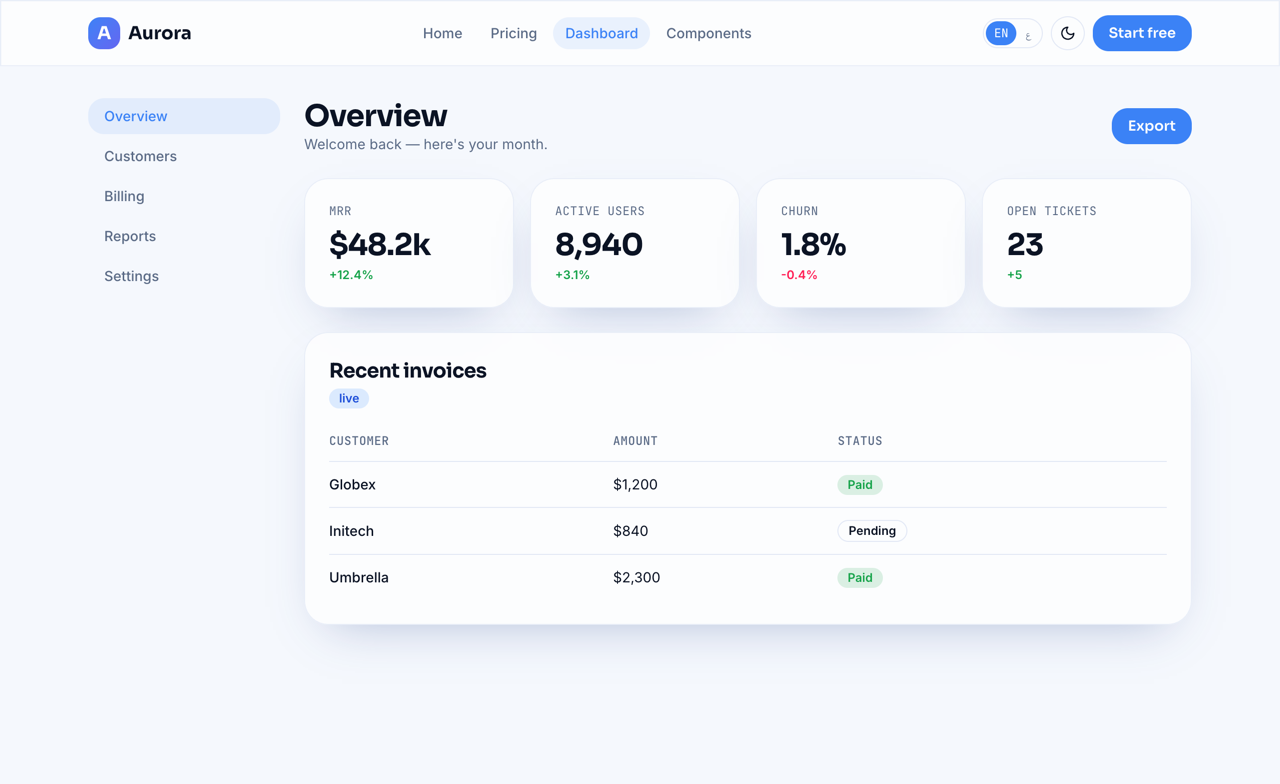
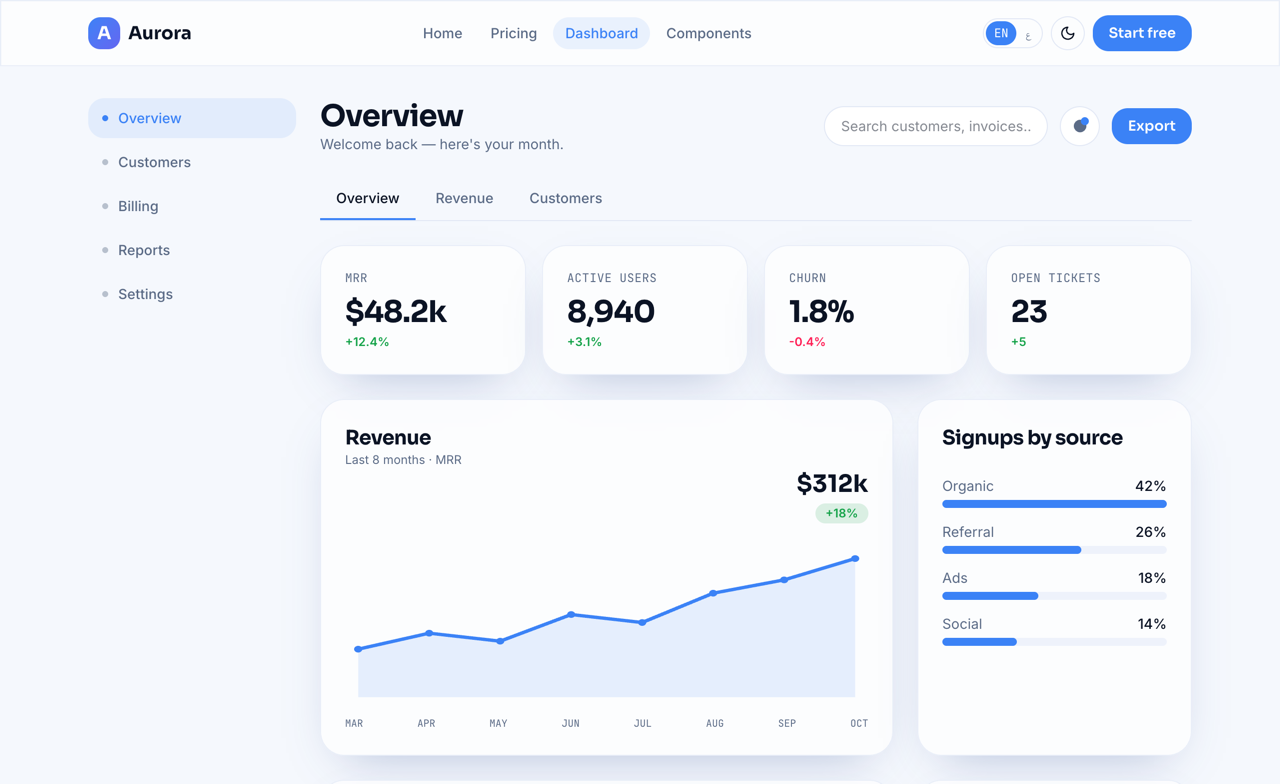
feat(dashboard): dense full dashboard — chart, traffic, table, activity, customers

diff --git a/react/src/routes/dashboard.tsx b/react/src/routes/dashboard.tsx
@@ -5,68 +5,213 @@ import { Container } from "../components/container";
 import { StatCards } from "../blocks/stat-cards";
 import { useI18n } from "../i18n";
 
+/** Inline area chart — no chart lib, pure SVG, themed via currentColor. */
+function AreaChart({ series }: { series: number[] }) {
+  const max = Math.max(...series);
+  const w = 320;
+  const h = 120;
+  const pad = 8;
+  const pts = series.map((v, i) => [
+    pad + (i / (series.length - 1)) * (w - pad * 2),
+    h - pad - (v / max) * (h - pad * 2),
+  ]);
+  const line = pts.map((p) => p.join(",")).join(" ");
+  const area = `${pad},${h - pad} ${line} ${w - pad},${h - pad}`;
+  return (
+    <svg viewBox={`0 0 ${w} ${h}`} className="h-40 w-full text-primary" preserveAspectRatio="none">
+      <polygon points={area} fill="currentColor" opacity="0.12" />
+      <polyline points={line} fill="none" stroke="currentColor" strokeWidth="2.5" strokeLinejoin="round" strokeLinecap="round" />
+      {pts.map((p, i) => (
+        <circle key={i} cx={p[0]} cy={p[1]} r="2.5" fill="currentColor" />
+      ))}
+    </svg>
+  );
+}
+
+function Avatar({ name }: { name: string }) {
+  const initials = name.trim().split(/\s+/).slice(0, 2).map((p) => p[0]).join("");
+  return (
+    <span className="grid h-9 w-9 shrink-0 place-items-center rounded-full bg-primary/10 font-display text-sm font-bold text-primary">
+      {initials}
+    </span>
+  );
+}
+
 export function Dashboard() {
   const { t } = useI18n();
   const d = t.dashboard;
+  const trafficMax = Math.max(...d.traffic.map((x) => x.value));
+
   return (
     <Container className="py-8">
       <div className="flex gap-6">
-        <aside className="hidden w-48 shrink-0 lg:block">
+        {/* Sidebar */}
+        <aside className="hidden w-52 shrink-0 lg:block">
           <nav className="space-y-1 text-sm font-medium">
             {d.nav.map((item, i) => (
               <a
                 key={item}
                 href="#"
                 className={
-                  "block rounded-[var(--radius)] px-4 py-2 " +
+                  "flex items-center gap-2.5 rounded-[var(--radius)] px-3.5 py-2.5 " +
                   (i === 0 ? "bg-primary/10 text-primary" : "text-muted-foreground hover:bg-muted")
                 }
               >
+                <span className={"h-1.5 w-1.5 rounded-full " + (i === 0 ? "bg-primary" : "bg-muted-foreground/40")} />
                 {item}
               </a>
             ))}
           </nav>
         </aside>
 
+        {/* Main */}
         <main className="min-w-0 flex-1 space-y-6">
-          <div className="flex items-center justify-between">
-            <div>
+          {/* Topbar */}
+          <div className="flex flex-wrap items-center gap-3">
+            <div className="min-w-0 flex-1">
               <h1 className="font-display text-3xl font-bold tracking-tight">{d.title}</h1>
               <p className="text-sm text-muted-foreground">{d.subtitle}</p>
             </div>
+            <input
+              placeholder={d.search}
+              className="hidden h-10 w-56 rounded-full border border-border bg-card px-4 text-sm outline-none focus:border-primary md:block"
+            />
+            <button className="relative grid h-10 w-10 place-items-center rounded-full border border-border bg-card text-muted-foreground">
+              <span className="absolute right-2.5 top-2.5 h-2 w-2 rounded-full bg-primary" />●
+            </button>
             <Button size="sm">{d.action}</Button>
+          </div>
+
+          {/* Tabs */}
+          <div className="flex gap-1 border-b border-border">
+            {d.tabs.map((tab, i) => (
+              <button
+                key={tab}
+                className={
+                  "border-b-2 px-4 py-2.5 text-sm font-medium " +
+                  (i === 0 ? "border-primary text-foreground" : "border-transparent text-muted-foreground hover:text-foreground")
+                }
+              >
+                {tab}
+              </button>
+            ))}
           </div>
 
           <StatCards stats={d.stats} />
 
+          {/* Charts row */}
+          <div className="grid gap-6 lg:grid-cols-3">
+            <Card className="lg:col-span-2">
+              <CardHeader className="flex-row items-start justify-between">
+                <div>
+                  <CardTitle>{d.chartTitle}</CardTitle>
+                  <p className="text-xs text-muted-foreground">{d.chartCaption}</p>
+                </div>
+                <div className="text-end">
+                  <p className="font-display text-2xl font-bold">{d.chartTotal}</p>
+                  <Badge variant="success">+18%</Badge>
+                </div>
+              </CardHeader>
+              <CardContent>
+                <AreaChart series={d.series} />
+                <div className="mt-2 flex justify-between font-mono text-[10px] uppercase text-muted-foreground">
+                  {d.months.map((m) => (
+                    <span key={m}>{m}</span>
+                  ))}
+                </div>
+              </CardContent>
+            </Card>
+
+            <Card>
+              <CardHeader>
+                <CardTitle>{d.trafficTitle}</CardTitle>
+              </CardHeader>
+              <CardContent className="space-y-3.5">
+                {d.traffic.map((row) => (
+                  <div key={row.label}>
+                    <div className="mb-1 flex justify-between text-sm">
+                      <span className="text-muted-foreground">{row.label}</span>
+                      <span className="font-medium">{row.value}%</span>
+                    </div>
+                    <div className="h-2 overflow-hidden rounded-full bg-muted">
+                      <div className="h-full rounded-full bg-primary" style={{ width: `${(row.value / trafficMax) * 100}%` }} />
+                    </div>
+                  </div>
+                ))}
+              </CardContent>
+            </Card>
+          </div>
+
+          {/* Table + activity */}
+          <div className="grid gap-6 lg:grid-cols-3">
+            <Card className="lg:col-span-2">
+              <CardHeader className="flex-row items-center justify-between">
+                <CardTitle>{d.tableTitle}</CardTitle>
+                <Badge variant="brand">live</Badge>
+              </CardHeader>
+              <CardContent>
+                <table className="w-full text-start text-sm">
+                  <thead className="font-mono text-xs uppercase tracking-wide text-muted-foreground">
+                    <tr>
+                      {d.cols.map((c) => (
+                        <th key={c} className="pb-3 text-start font-medium">{c}</th>
+                      ))}
+                    </tr>
+                  </thead>
+                  <tbody>
+                    {d.rows.map((r) => (
+                      <tr key={r.name} className="border-t border-border">
+                        <td className="py-3 font-medium">{r.name}</td>
+                        <td className="py-3">{r.reach}</td>
+                        <td className="py-3">
+                          <Badge variant={r.status === d.active ? "success" : "outline"}>{r.status}</Badge>
+                        </td>
+                      </tr>
+                    ))}
+                  </tbody>
+                </table>
+              </CardContent>
+            </Card>
+
+            <Card>
+              <CardHeader>
+                <CardTitle>{d.activityTitle}</CardTitle>
+              </CardHeader>
+              <CardContent>
+                <ol className="space-y-4">
+                  {d.activity.map((a, i) => (
+                    <li key={i} className="flex gap-3">
+                      <span className="mt-1.5 h-2 w-2 shrink-0 rounded-full bg-primary" />
+                      <div className="min-w-0 flex-1">
+                        <p className="text-sm leading-snug">{a.text}</p>
+                        <p className="font-mono text-[11px] text-muted-foreground">{a.time}</p>
+                      </div>
+                    </li>
+                  ))}
+                </ol>
+              </CardContent>
+            </Card>
+          </div>
+
+          {/* Customers */}
           <Card>
             <CardHeader className="flex-row items-center justify-between">
-              <CardTitle>{d.tableTitle}</CardTitle>
-              <Badge variant="brand">live</Badge>
+              <CardTitle>{d.usersTitle}</CardTitle>
+              <Button variant="ghost" size="sm">{d.seeAll}</Button>
             </CardHeader>
             <CardContent>
-              <table className="w-full text-start text-sm">
-                <thead className="font-mono text-xs uppercase tracking-wide text-muted-foreground">
-                  <tr>
-                    {d.cols.map((c) => (
-                      <th key={c} className="pb-3 text-start font-medium">
-                        {c}
-                      </th>
-                    ))}
-                  </tr>
-                </thead>
-                <tbody>
-                  {d.rows.map((r) => (
-                    <tr key={r.name} className="border-t border-border">
-                      <td className="py-3 font-medium">{r.name}</td>
-                      <td className="py-3">{r.reach}</td>
-                      <td className="py-3">
-                        <Badge variant={r.status === d.active ? "success" : "outline"}>{r.status}</Badge>
-                      </td>
-                    </tr>
-                  ))}
-                </tbody>
-              </table>
+              <div className="grid gap-3 sm:grid-cols-2">
+                {d.users.map((u) => (
+                  <div key={u.name} className="flex items-center gap-3 rounded-[var(--radius)] border border-border p-3">
+                    <Avatar name={u.name} />
+                    <div className="min-w-0 flex-1">
+                      <p className="truncate font-medium">{u.name}</p>
+                      <p className="truncate text-xs text-muted-foreground">{u.org}</p>
+                    </div>
+                    <Badge variant={u.status === d.trial ? "outline" : "success"}>{u.status}</Badge>
+                  </div>
+                ))}
+              </div>
             </CardContent>
           </Card>
         </main>

diff --git a/react/src/i18n/ar.ts b/react/src/i18n/ar.ts
@@ -67,6 +67,37 @@ export const ar: Dict = {
     ],
     active: "مدفوعة",
     paused: "معلّقة",
+    search: "ابحث في العملاء والفواتير…",
+    tabs: ["نظرة عامة", "الإيرادات", "العملاء"],
+    chartTitle: "الإيرادات",
+    chartCaption: "آخر 8 أشهر · MRR",
+    chartTotal: "$312k",
+    months: ["مارس", "أبريل", "مايو", "يونيو", "يوليو", "أغسطس", "سبتمبر", "أكتوبر"],
+    series: [18, 24, 21, 31, 28, 39, 44, 52],
+    trafficTitle: "التسجيلات حسب المصدر",
+    traffic: [
+      { label: "عضوي", value: 42 },
+      { label: "إحالة", value: 26 },
+      { label: "إعلانات", value: 18 },
+      { label: "اجتماعي", value: 14 },
+    ],
+    usersTitle: "عملاء جدد",
+    seeAll: "عرض الكل",
+    users: [
+      { name: "مايا تشين", org: "أكمي · مالك", status: "نشط" },
+      { name: "جوردن لي", org: "جلوبكس · مشرف", status: "نشط" },
+      { name: "سارة بارك", org: "إنيتك · الفوترة", status: "تجريبي" },
+      { name: "دييغو رويز", org: "أمبريلا · عضو", status: "نشط" },
+    ],
+    activityTitle: "النشاط",
+    activity: [
+      { text: "ترقية جلوبكس إلى Scale", time: "د٢" },
+      { text: "تذكرة جديدة من إنيتك", time: "د١٨" },
+      { text: "تم دفع الفاتورة #1043", time: "س١" },
+      { text: "بدأت سارة بارك نسخة تجريبية", time: "س٣" },
+      { text: "جدّدت أمبريلا سنويًا", time: "س٥" },
+    ],
+    trial: "تجريبي",
   },
   showcase: {
     title: "نظام تصميم أورورا",

diff --git a/react/src/i18n/en.ts b/react/src/i18n/en.ts
@@ -65,6 +65,37 @@ export const en = {
     ],
     active: "Paid",
     paused: "Pending",
+    search: "Search customers, invoices…",
+    tabs: ["Overview", "Revenue", "Customers"],
+    chartTitle: "Revenue",
+    chartCaption: "Last 8 months · MRR",
+    chartTotal: "$312k",
+    months: ["Mar", "Apr", "May", "Jun", "Jul", "Aug", "Sep", "Oct"],
+    series: [18, 24, 21, 31, 28, 39, 44, 52],
+    trafficTitle: "Signups by source",
+    traffic: [
+      { label: "Organic", value: 42 },
+      { label: "Referral", value: 26 },
+      { label: "Ads", value: 18 },
+      { label: "Social", value: 14 },
+    ],
+    usersTitle: "New customers",
+    seeAll: "See all",
+    users: [
+      { name: "Maya Chen", org: "Acme · Owner", status: "Active" },
+      { name: "Jordan Lee", org: "Globex · Admin", status: "Active" },
+      { name: "Sara Park", org: "Initech · Billing", status: "Trial" },
+      { name: "Diego Ruiz", org: "Umbrella · Member", status: "Active" },
+    ],
+    activityTitle: "Activity",
+    activity: [
+      { text: "Globex upgraded to Scale", time: "2m" },
+      { text: "New ticket from Initech", time: "18m" },
+      { text: "Invoice #1043 marked paid", time: "1h" },
+      { text: "Sara Park started a trial", time: "3h" },
+      { text: "Umbrella renewed annually", time: "5h" },
+    ],
+    trial: "Trial",
   },
   showcase: {
     title: "Aurora design system",